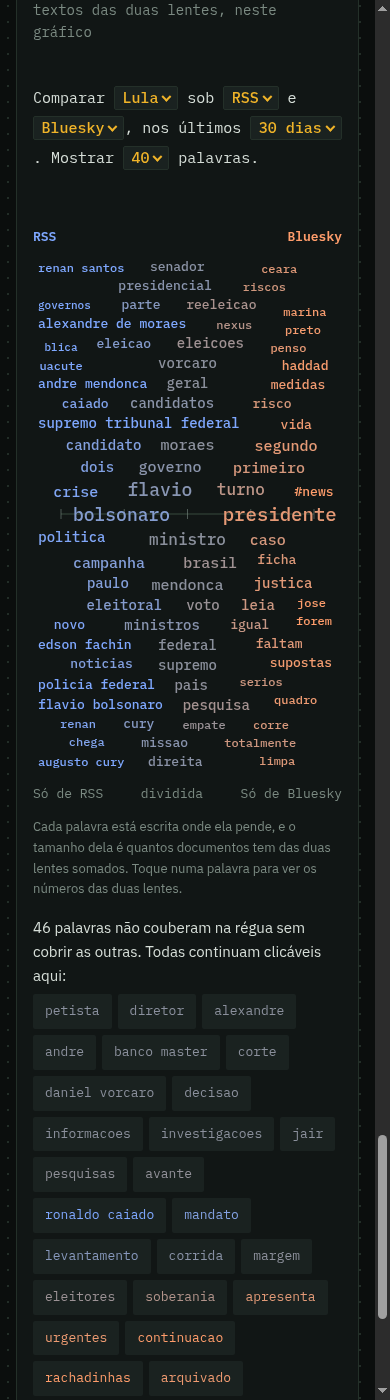
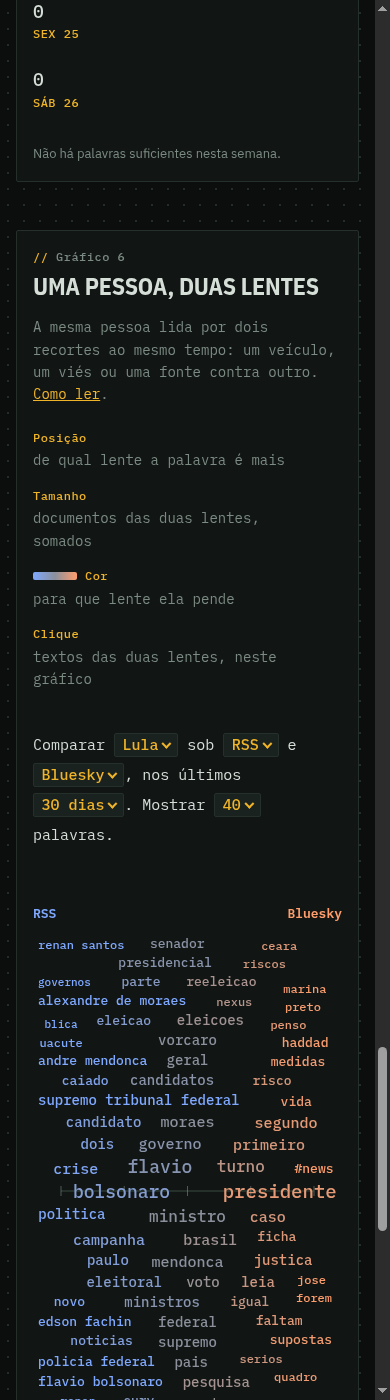
Keep picker and trailing punctuation on one line

diff --git a/public/atlas.html b/public/atlas.html
@@ -37,7 +37,7 @@
         <div><dt>Clique</dt><dd>textos da palavra</dd></div>
       </dl>
       <div class="sentence">
-        <p class="sentence-line">Palavras ligadas a <span class="pick"><select id="person" aria-label="Pessoa"></select></span> nos <span class="pick"><select id="days" aria-label="Período"><option value="7">últimos 7 dias</option><option value="30" selected>últimos 30 dias</option><option value="365">último ano</option></select></span>, em <span class="pick"><select id="source" aria-label="Fonte"></select></span>, por <span class="pick"><select id="sort" aria-label="Tamanho por"><option value="count">frequência</option><option value="pmi" selected>PMI ponderado</option></select></span>. Mostrar <span class="pick"><select id="limit" aria-label="Quantidade de palavras"><option>12</option><option selected>18</option><option>24</option></select></span> palavras.</p>
+        <p class="sentence-line">Palavras ligadas a <span class="pick"><select id="person" aria-label="Pessoa"></select></span> nos <span class="keep"><span class="pick"><select id="days" aria-label="Período"><option value="7">últimos 7 dias</option><option value="30" selected>últimos 30 dias</option><option value="365">último ano</option></select></span>,</span> em <span class="keep"><span class="pick"><select id="source" aria-label="Fonte"></select></span>,</span> por <span class="keep"><span class="pick"><select id="sort" aria-label="Tamanho por"><option value="count">frequência</option><option value="pmi" selected>PMI ponderado</option></select></span>.</span> Mostrar <span class="pick"><select id="limit" aria-label="Quantidade de palavras"><option>12</option><option selected>18</option><option>24</option></select></span> palavras.</p>
         <p class="status-row"><span class="status" id="status" role="status"></span></p>
       </div>
     </header>
@@ -67,7 +67,7 @@
         <div><dt>Tamanho</dt><dd>quantos textos o veículo tem</dd></div>
         <div><dt>Clique</dt><dd>textos daquele veículo, só neste gráfico</dd></div>
       </dl>
-      <div class="sentence"><p class="sentence-line">Avaliação por veículo sobre <span class="pick"><select id="testimonyPerson" aria-label="Pessoa (avaliação por veículo)"></select></span> nos <span class="pick"><select id="testimonyDays" aria-label="Período (avaliação por veículo)"><option value="7">últimos 7 dias</option><option value="30" selected>últimos 30 dias</option><option value="365">último ano</option></select></span>, em <span class="pick"><select id="testimonySource" aria-label="Fonte (avaliação por veículo)"></select></span>.</p></div>
+      <div class="sentence"><p class="sentence-line">Avaliação por veículo sobre <span class="pick"><select id="testimonyPerson" aria-label="Pessoa (avaliação por veículo)"></select></span> nos <span class="keep"><span class="pick"><select id="testimonyDays" aria-label="Período (avaliação por veículo)"><option value="7">últimos 7 dias</option><option value="30" selected>últimos 30 dias</option><option value="365">último ano</option></select></span>,</span> em <span class="keep"><span class="pick"><select id="testimonySource" aria-label="Fonte (avaliação por veículo)"></select></span>.</span></p></div>
     </header>
     <figure class="strip" id="strip" aria-label="Veículos na régua da avaliação" hidden></figure>
     <div class="testimony-lists" id="testimonyList">Aguardando dados.</div>
@@ -84,7 +84,7 @@
         <div><dt><span class="key-pair" aria-hidden="true"></span>Cor</dt><dd>de que lado ela pende</dd></div>
         <div><dt>Clique</dt><dd>textos das duas pessoas, neste gráfico</dd></div>
       </dl>
-      <div class="sentence"><p class="sentence-line">Comparar <span class="pick"><select id="compareA" aria-label="Pessoa A"></select></span> com <span class="pick"><select id="compareB" aria-label="Pessoa B"></select></span> nos <span class="pick"><select id="compareDays" aria-label="Período"><option value="7">últimos 7 dias</option><option value="30" selected>últimos 30 dias</option><option value="365">último ano</option></select></span>, em <span class="pick"><select id="compareSource" aria-label="Fonte"></select></span>, por <span class="pick"><select id="compareMeasure" aria-label="Medida"></select></span>. Mostrar <span class="pick"><select id="compareLimit" aria-label="Quantidade de palavras"></select></span> palavras por pessoa.</p></div>
+      <div class="sentence"><p class="sentence-line">Comparar <span class="pick"><select id="compareA" aria-label="Pessoa A"></select></span> com <span class="pick"><select id="compareB" aria-label="Pessoa B"></select></span> nos <span class="keep"><span class="pick"><select id="compareDays" aria-label="Período"><option value="7">últimos 7 dias</option><option value="30" selected>últimos 30 dias</option><option value="365">último ano</option></select></span>,</span> em <span class="keep"><span class="pick"><select id="compareSource" aria-label="Fonte"></select></span>,</span> por <span class="keep"><span class="pick"><select id="compareMeasure" aria-label="Medida"></select></span>.</span> Mostrar <span class="pick"><select id="compareLimit" aria-label="Quantidade de palavras"></select></span> palavras por pessoa.</p></div>
     </header>
     <p class="status" id="compareStatus" role="status" hidden>Os dois lados mostram a mesma pessoa.</p>
     <figure class="ruler" id="compareRuler" aria-label="Régua comparando as duas pessoas" hidden></figure>
@@ -103,7 +103,7 @@
         <div><dt>Clique</dt><dd>textos da semana</dd></div>
         <div><dt>Lista</dt><dd>fora da régua, as que subiram de fato, da maior subida para a menor</dd></div>
       </dl>
-      <div class="sentence"><p class="sentence-line">O que se escreve sobre <span class="pick"><select id="risingPerson" aria-label="Pessoa (em alta)"></select></span> nos últimos 7 dias, contra os 30 dias antes, em <span class="pick"><select id="risingSource" aria-label="Fonte (em alta)"></select></span>.</p></div>
+      <div class="sentence"><p class="sentence-line">O que se escreve sobre <span class="pick"><select id="risingPerson" aria-label="Pessoa (em alta)"></select></span> nos últimos 7 dias, contra os 30 dias antes, em <span class="keep"><span class="pick"><select id="risingSource" aria-label="Fonte (em alta)"></select></span>.</span></p></div>
     </header>
     <figure class="ruler" id="risingRuler" aria-label="Régua de termos em alta" hidden></figure>
     <p class="note" id="risingAbout"></p>
@@ -118,7 +118,7 @@
         <div><dt>Posição</dt><dd>só o dia; a altura na coluna não mede nada</dd></div>
         <div><dt>Clique</dt><dd>os textos daquele dia</dd></div>
       </dl>
-      <div class="sentence"><p class="sentence-line">Na semana de <span class="pick"><select id="weekPerson" aria-label="Pessoa (semana)"></select></span>, em <span class="pick"><select id="weekSource" aria-label="Fonte (semana)"></select></span>, as palavras que mais ocuparam cada dia. Mostrar <span class="pick"><select id="weekLimit" aria-label="Quantidade de palavras por dia"><option>5</option><option selected>8</option><option>12</option></select></span> palavras por dia.</p></div>
+      <div class="sentence"><p class="sentence-line">Na semana de <span class="keep"><span class="pick"><select id="weekPerson" aria-label="Pessoa (semana)"></select></span>,</span> em <span class="keep"><span class="pick"><select id="weekSource" aria-label="Fonte (semana)"></select></span>,</span> as palavras que mais ocuparam cada dia. Mostrar <span class="pick"><select id="weekLimit" aria-label="Quantidade de palavras por dia"><option>5</option><option selected>8</option><option>12</option></select></span> palavras por dia.</p></div>
     </header>
     <figure class="week-chart" id="weekChart" aria-label="Palavras da semana, uma coluna por dia" hidden></figure>
     <p class="note" id="weekNote"></p>
@@ -139,12 +139,12 @@
         <optgroup label="Veículo" id="lensesAOutlets"></optgroup>
         <optgroup label="Viés"><option value="lean:left">Esquerda</option><option value="lean:center">Centro</option><option value="lean:right">Direita</option></optgroup>
         <optgroup label="Fonte"><option value="source:bluesky">Bluesky</option><option value="source:gdelt">GDELT</option><option value="source:rss">RSS</option><option value="source:gnews">Google News</option><option value="source:gkg">GKG</option><option value="source:camara">Câmara</option><option value="source:senado">Senado</option><option value="source:juridico">Jurídico</option><option value="source:oficial">Oficial</option><option value="source:nicho">Nicho</option></optgroup>
-      </select></span> e <span class="pick"><select id="lensesB" aria-label="Lente B">
+      </select></span> e <span class="keep"><span class="pick"><select id="lensesB" aria-label="Lente B">
         <option value="all">Tudo</option>
         <optgroup label="Veículo" id="lensesBOutlets"></optgroup>
         <optgroup label="Viés"><option value="lean:left">Esquerda</option><option value="lean:center">Centro</option><option value="lean:right">Direita</option></optgroup>
         <optgroup label="Fonte"><option value="source:bluesky">Bluesky</option><option value="source:gdelt">GDELT</option><option value="source:rss">RSS</option><option value="source:gnews">Google News</option><option value="source:gkg">GKG</option><option value="source:camara">Câmara</option><option value="source:senado">Senado</option><option value="source:juridico">Jurídico</option><option value="source:oficial">Oficial</option><option value="source:nicho">Nicho</option></optgroup>
-      </select></span>, nos últimos <span class="pick"><select id="lensesDays" aria-label="Período (lentes)"><option value="7">7 dias</option><option value="30" selected>30 dias</option><option value="365">ano</option></select></span>. Mostrar <span class="pick"><select id="lensesLimit" aria-label="Quantidade de palavras (lentes)">
+      </select></span>,</span> nos últimos <span class="keep"><span class="pick"><select id="lensesDays" aria-label="Período (lentes)"><option value="7">7 dias</option><option value="30" selected>30 dias</option><option value="365">ano</option></select></span>.</span> Mostrar <span class="pick"><select id="lensesLimit" aria-label="Quantidade de palavras (lentes)">
         <option value="20">20</option><option value="40" selected>40</option><option value="60">60</option><option value="100">100</option>
       </select></span> palavras.</p></div>
     </header>

diff --git a/public/atlas.css b/public/atlas.css
@@ -218,6 +218,7 @@ main { max-width: 1440px; margin: auto; padding: var(--space-2) var(--gutter) va
    gets an explicit height; the sentence's line-height is what keeps daylight between lines. */
 .sentence-line { font-family: var(--mono); font-size: var(--t-base); line-height: var(--lh-chip); font-weight: 400; max-width: 1120px; }
 .pick { display: inline-block; position: relative; max-width: 100%; vertical-align: baseline; margin: 0; }
+.keep { white-space: nowrap; }
 /* The chevron is drawn in CSS so it follows --accent; a data-URI SVG cannot read a token. */
 .pick::after { content: ''; position: absolute; right: .55em; top: 50%; width: .32em; height: .32em; border-right: 2px solid var(--accent); border-bottom: 2px solid var(--accent); transform: translateY(-70%) rotate(45deg); pointer-events: none; }
 .pick select { appearance: none; -webkit-appearance: none; max-width: 100%; background: var(--soft); border: 1px solid var(--line); border-radius: 2px; padding: 0 1.25em 0 .5em; height: 1.6em; color: var(--accent); font-family: inherit; font-size: inherit; line-height: 1.5em; font-weight: 500; cursor: pointer; text-overflow: ellipsis; field-sizing: content; vertical-align: baseline; transition: background-color .12s, border-color .12s; }
